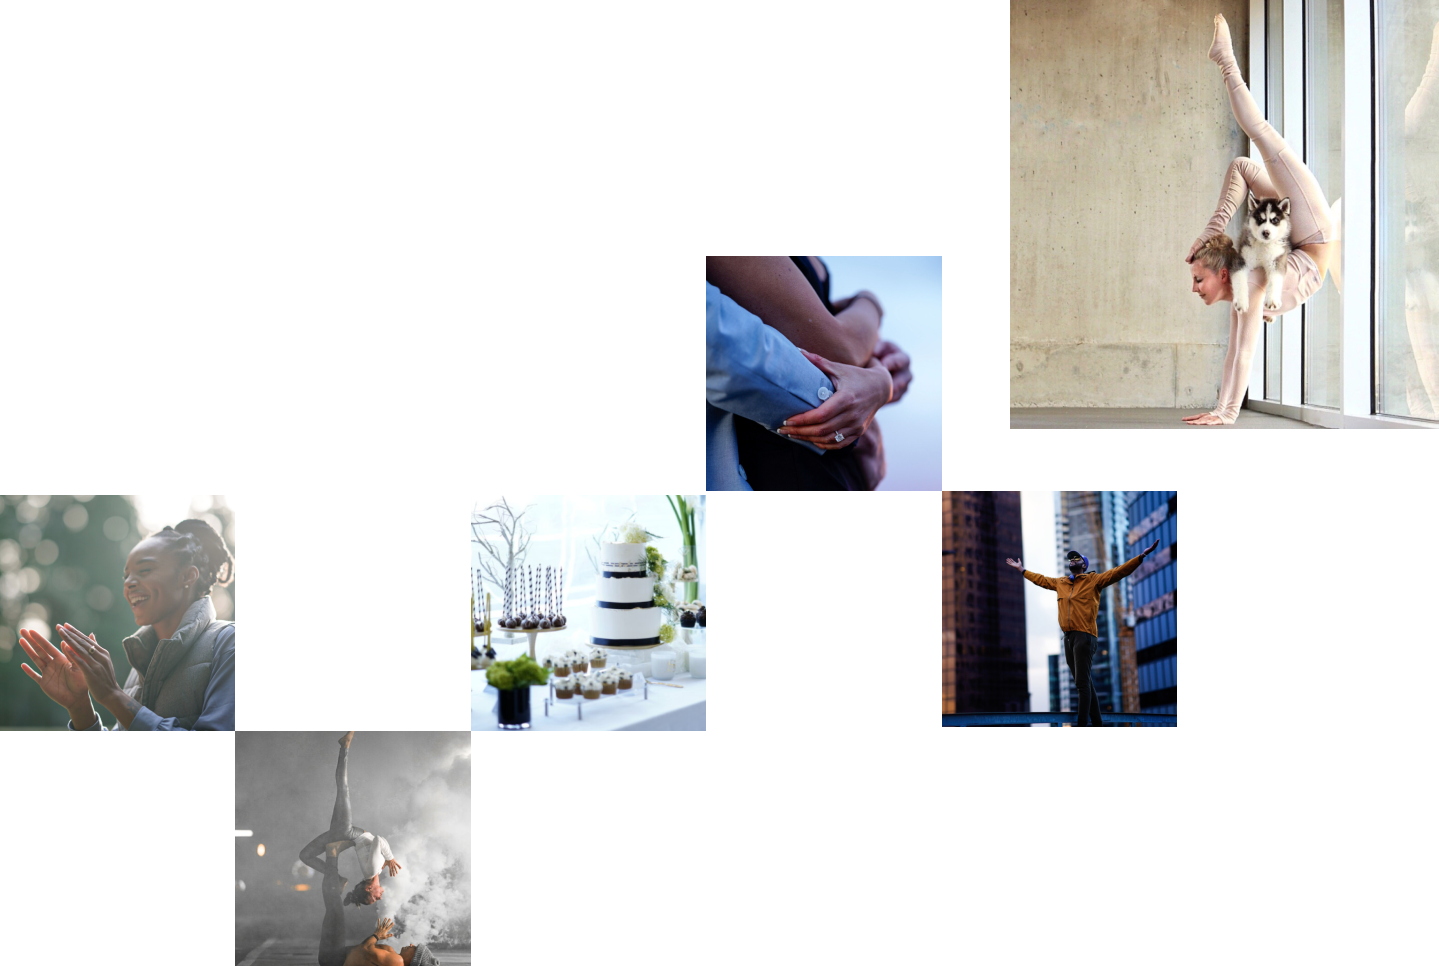
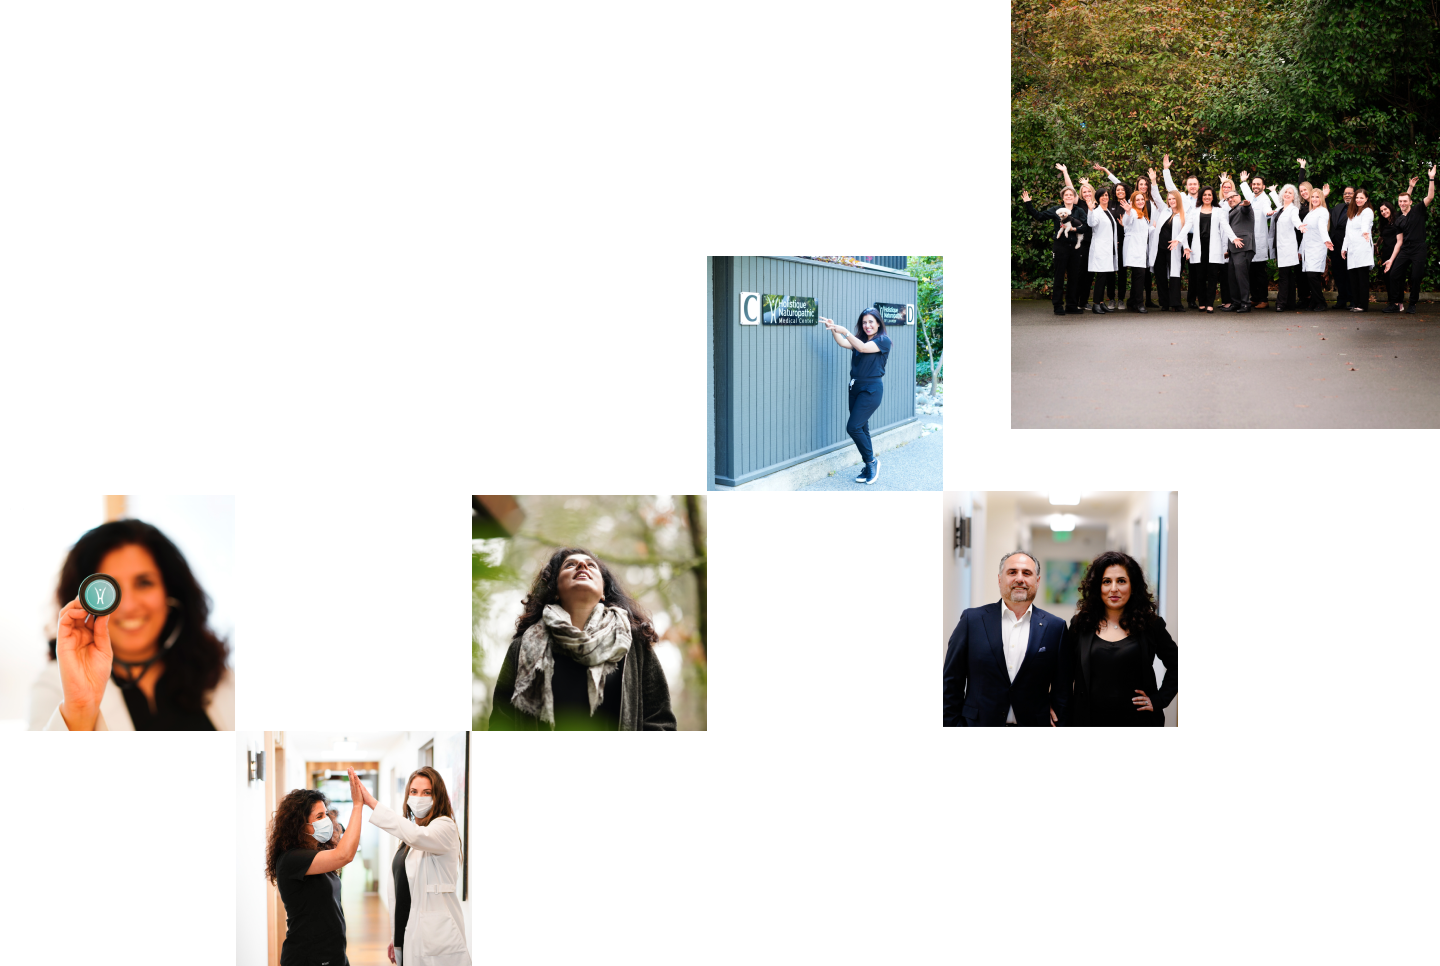
new images carousel

diff --git a/index.html b/index.html
@@ -63,7 +63,7 @@
 				       The importance of purpose-driven human connection fuels our passion for cultivating like-minded partnerships and affiliations. 
 				      </h3>
 				      <h5 class="subtitle is-5">
-				        We believe that Divine partnerships can birthbeautiful concepts, foster community and build powerful professional connections.
+				        We believe that Divine partnerships can birth beautiful concepts, foster community and build powerful professional connections.
 				      </h5>
 			    </div>
 		    </div>
@@ -210,25 +210,65 @@ perfectly match their needs while furthering your business.</p>
 		             <ul class="grid-x slides">
 		                  <li class="photo">
 		                      <span class="inner">
-		                            <img src="img/sample-gallery-1.jpg" alt="photography" />
+		                            <img src="img/photos/products-1.jpg" alt="photography" />
 		                      </span>
 		                  </li>
 		                  
 		                  <li class="photo">
 		                      <span class="inner">
-		                            <img src="img/sample-gallery-2.jpg" alt="photography" />
+		                            <img src="img/photos/products-2.jpg" alt="photography" />
 		                      </span>
 		                  </li>
 		                  
 		                  <li class="photo">
 		                      <span class="inner">
-		                            <img src="img/sample-gallery-1.jpg" alt="photography" />
+		                            <img src="img/photos/products-3.jpg" alt="photography" />
 		                      </span>
 		                  </li>
 		                  
 		                  <li class="photo">
 		                      <span class="inner">
-		                            <img src="img/sample-gallery-2.jpg" alt="photography" />
+		                            <img src="img/photos/products-4.jpg" alt="photography" />
+		                      </span>
+		                  </li>
+		                   <li class="photo">
+		                      <span class="inner">
+		                            <img src="img/photos/products-5.jpg" alt="photography" />
+		                      </span>
+		                  </li>
+		                   <li class="photo">
+		                      <span class="inner">
+		                            <img src="img/photos/products-6.jpg" alt="photography" />
+		                      </span>
+		                  </li>
+		                   <li class="photo">
+		                      <span class="inner">
+		                            <img src="img/photos/products-7.jpg" alt="photography" />
+		                      </span>
+		                  </li>
+		                   <li class="photo">
+		                      <span class="inner">
+		                            <img src="img/photos/products-8.jpg" alt="photography" />
+		                      </span>
+		                  </li>
+		                   <li class="photo">
+		                      <span class="inner">
+		                            <img src="img/photos/products-9.jpg" alt="photography" />
+		                      </span>
+		                  </li>
+		                   <li class="photo">
+		                      <span class="inner">
+		                            <img src="img/photos/products-10.jpg" alt="photography" />
+		                      </span>
+		                  </li>
+		                  <li class="photo">
+		                      <span class="inner">
+		                            <img src="img/photos/products-11.jpg" alt="photography" />
+		                      </span>
+		                  </li>
+		                   <li class="photo">
+		                      <span class="inner">
+		                            <img src="img/photos/products-12.jpg" alt="photography" />
 		                      </span>
 		                  </li>
 		             </ul>
@@ -240,25 +280,65 @@ perfectly match their needs while furthering your business.</p>
 		             <ul class="grid-x slides">
 		                  <li class="photo">
 		                      <span class="inner">
-		                            <img src="img/sample-gallery-2.jpg" alt="photography" />
+		                            <img src="img/photos/lifestyle-1.jpg" alt="photography" />
 		                      </span>
 		                  </li>
 		                  
 		                  <li class="photo">
 		                      <span class="inner">
-		                            <img src="img/sample-gallery-1.jpg" alt="photography" />
+		                            <img src="img/photos/lifestyle-2.jpg" alt="photography" />
 		                      </span>
 		                  </li>
 		                  
 		                  <li class="photo">
 		                      <span class="inner">
-		                            <img src="img/sample-gallery-2.jpg" alt="photography" />
+		                            <img src="img/photos/lifestyle-3.jpg" alt="photography" />
 		                      </span>
 		                  </li>
 		                  
 		                  <li class="photo">
 		                      <span class="inner">
-		                            <img src="img/sample-gallery-1.jpg" alt="photography" />
+		                            <img src="img/photos/lifestyle-4.jpg" alt="photography" />
+		                      </span>
+		                  </li>
+		                  <li class="photo">
+		                      <span class="inner">
+		                            <img src="img/photos/lifestyle-5.jpg" alt="photography" />
+		                      </span>
+		                  </li>
+		                  <li class="photo">
+		                      <span class="inner">
+		                            <img src="img/photos/lifestyle-6.jpg" alt="photography" />
+		                      </span>
+		                  </li>
+		                  <li class="photo">
+		                      <span class="inner">
+		                            <img src="img/photos/lifestyle-7.jpg" alt="photography" />
+		                      </span>
+		                  </li>
+		                  <li class="photo">
+		                      <span class="inner">
+		                            <img src="img/photos/lifestyle-8.jpg" alt="photography" />
+		                      </span>
+		                  </li>
+		                  <li class="photo">
+		                      <span class="inner">
+		                            <img src="img/photos/lifestyle-9.jpg" alt="photography" />
+		                      </span>
+		                  </li>
+		                  <li class="photo">
+		                      <span class="inner">
+		                            <img src="img/photos/lifestyle-10.jpg" alt="photography" />
+		                      </span>
+		                  </li>
+		                  <li class="photo">
+		                      <span class="inner">
+		                            <img src="img/photos/lifestyle-11.jpg" alt="photography" />
+		                      </span>
+		                  </li>
+		                  <li class="photo">
+		                      <span class="inner">
+		                            <img src="img/photos/lifestyle-12.jpg" alt="photography" />
 		                      </span>
 		                  </li>
 		             </ul>
@@ -270,25 +350,65 @@ perfectly match their needs while furthering your business.</p>
 		             <ul class="grid-x slides">
 		                  <li class="photo">
 		                      <span class="inner">
-		                            <img src="img/sample-gallery-1.jpg" alt="photography" />
+		                            <img src="img/photos/wedding-1.jpg" alt="photography" />
 		                      </span>
 		                  </li>
 		                  
 		                  <li class="photo">
 		                      <span class="inner">
-		                            <img src="img/sample-gallery-2.jpg" alt="photography" />
+		                            <img src="img/photos/wedding-2.jpg" alt="photography" />
 		                      </span>
 		                  </li>
 		                  
 		                  <li class="photo">
 		                      <span class="inner">
-		                            <img src="img/sample-gallery-1.jpg" alt="photography" />
+		                            <img src="img/photos/wedding-3.jpg" alt="photography" />
 		                      </span>
 		                  </li>
 		                  
 		                  <li class="photo">
 		                      <span class="inner">
-		                            <img src="img/sample-gallery-2.jpg" alt="photography" />
+		                            <img src="img/photos/wedding-4.jpg" alt="photography" />
+		                      </span>
+		                  </li>
+		                   <li class="photo">
+		                      <span class="inner">
+		                            <img src="img/photos/wedding-5.jpg" alt="photography" />
+		                      </span>
+		                  </li>
+		                   <li class="photo">
+		                      <span class="inner">
+		                            <img src="img/photos/wedding-6.jpg" alt="photography" />
+		                      </span>
+		                  </li>
+		                   <li class="photo">
+		                      <span class="inner">
+		                            <img src="img/photos/wedding-7.jpg" alt="photography" />
+		                      </span>
+		                  </li>
+		                   <li class="photo">
+		                      <span class="inner">
+		                            <img src="img/photos/wedding-8.jpg" alt="photography" />
+		                      </span>
+		                  </li>
+		                   <li class="photo">
+		                      <span class="inner">
+		                            <img src="img/photos/wedding-9.jpg" alt="photography" />
+		                      </span>
+		                  </li>
+		                   <li class="photo">
+		                      <span class="inner">
+		                            <img src="img/photos/wedding-10.jpg" alt="photography" />
+		                      </span>
+		                  </li>
+		                  <li class="photo">
+		                      <span class="inner">
+		                            <img src="img/photos/wedding-11.jpg" alt="photography" />
+		                      </span>
+		                  </li>
+		                   <li class="photo">
+		                      <span class="inner">
+		                            <img src="img/photos/wedding-12.jpg" alt="photography" />
 		                      </span>
 		                  </li>
 		             </ul>
@@ -609,13 +729,13 @@ for charity events across all industries.</h3>
 			
 			<div class="columns">
 					<div class="column is-5">
-						<p>contact@jengreaff.com</p>
+						<p>hello@jengreaff.com</p>
 						<p>	(425) 457-1703</p>
 					</div>
 					
 					<div class="column is-5">
-						<p>4321 Western Avenue, Bellevue</p>
-						<p>WA 98057 United States.</p>
+						<p>Bellevue</p>
+						<p>WA 98004 United States.</p>
 					</div>
 				
 			</div>

diff --git a/css/main.css b/css/main.css
@@ -5596,6 +5596,12 @@ h6 {
   background-repeat: no-repeat;
   background-size: 100%;
   background-position: center 148px; }
+  @media (-webkit-min-device-pixel-ratio: 2), (min-resolution: 192dpi) {
+    .hero-body {
+      background-image: url(../img/hero-image2x.png); } }
+  @media (-webkit-min-device-pixel-ratio: 1.5), (min-resolution: 144dpi) {
+    .hero-body {
+      background-image: url(../img/hero-image2x.png); } }
   @media only screen and (max-width: 1232px) {
     .hero-body {
       background-position-y: 300px; } }

diff --git a/sass/main.scss b/sass/main.scss
@@ -175,6 +175,14 @@ h6 {
 	background-size: 100%;
 	background-position: center 148px;
 	
+	@media (-webkit-min-device-pixel-ratio: 2), (min-resolution: 192dpi) { 
+    	background-image: url(../img/hero-image2x.png);
+	}
+	
+	@media (-webkit-min-device-pixel-ratio: 1.5), (min-resolution: 144dpi){ 
+		background-image: url(../img/hero-image2x.png);
+	}
+	
 	@media only screen and (max-width: 1232px) { 
 		background-position-y: 300px;
 	}
